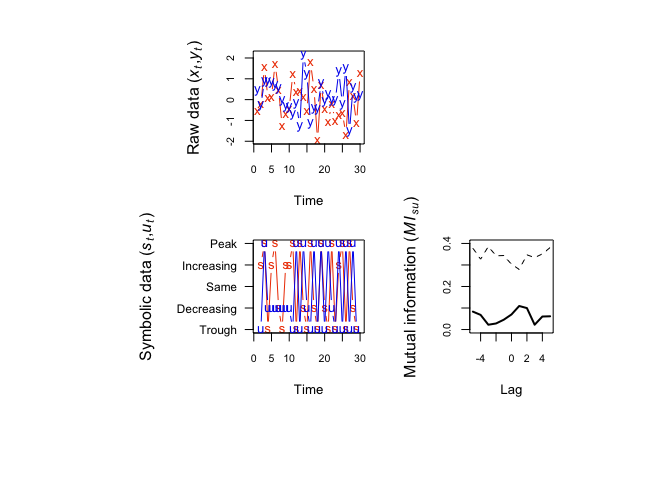
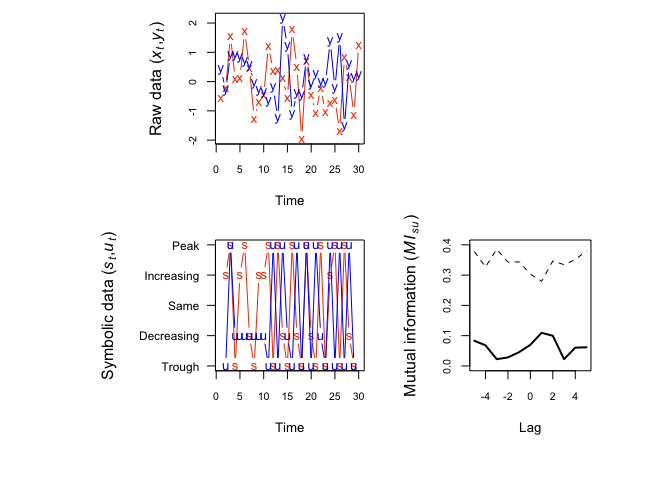
fixed plot size

diff --git a/README.md b/README.md
@@ -45,7 +45,6 @@ set.seed(123)
 TT <- 30
 x <- rnorm(TT)
 y <- rnorm(TT)
-par(omi=rep(0.1,4))
 muti(x,y)
 ```
 
@@ -71,7 +70,6 @@ set.seed(123)
 TT <- 30
 x <- rnorm(TT)
 y <- x + rnorm(TT,0,0.1)
-par(omi=rep(0.1,4))
 muti(x,y)
 ```
 
